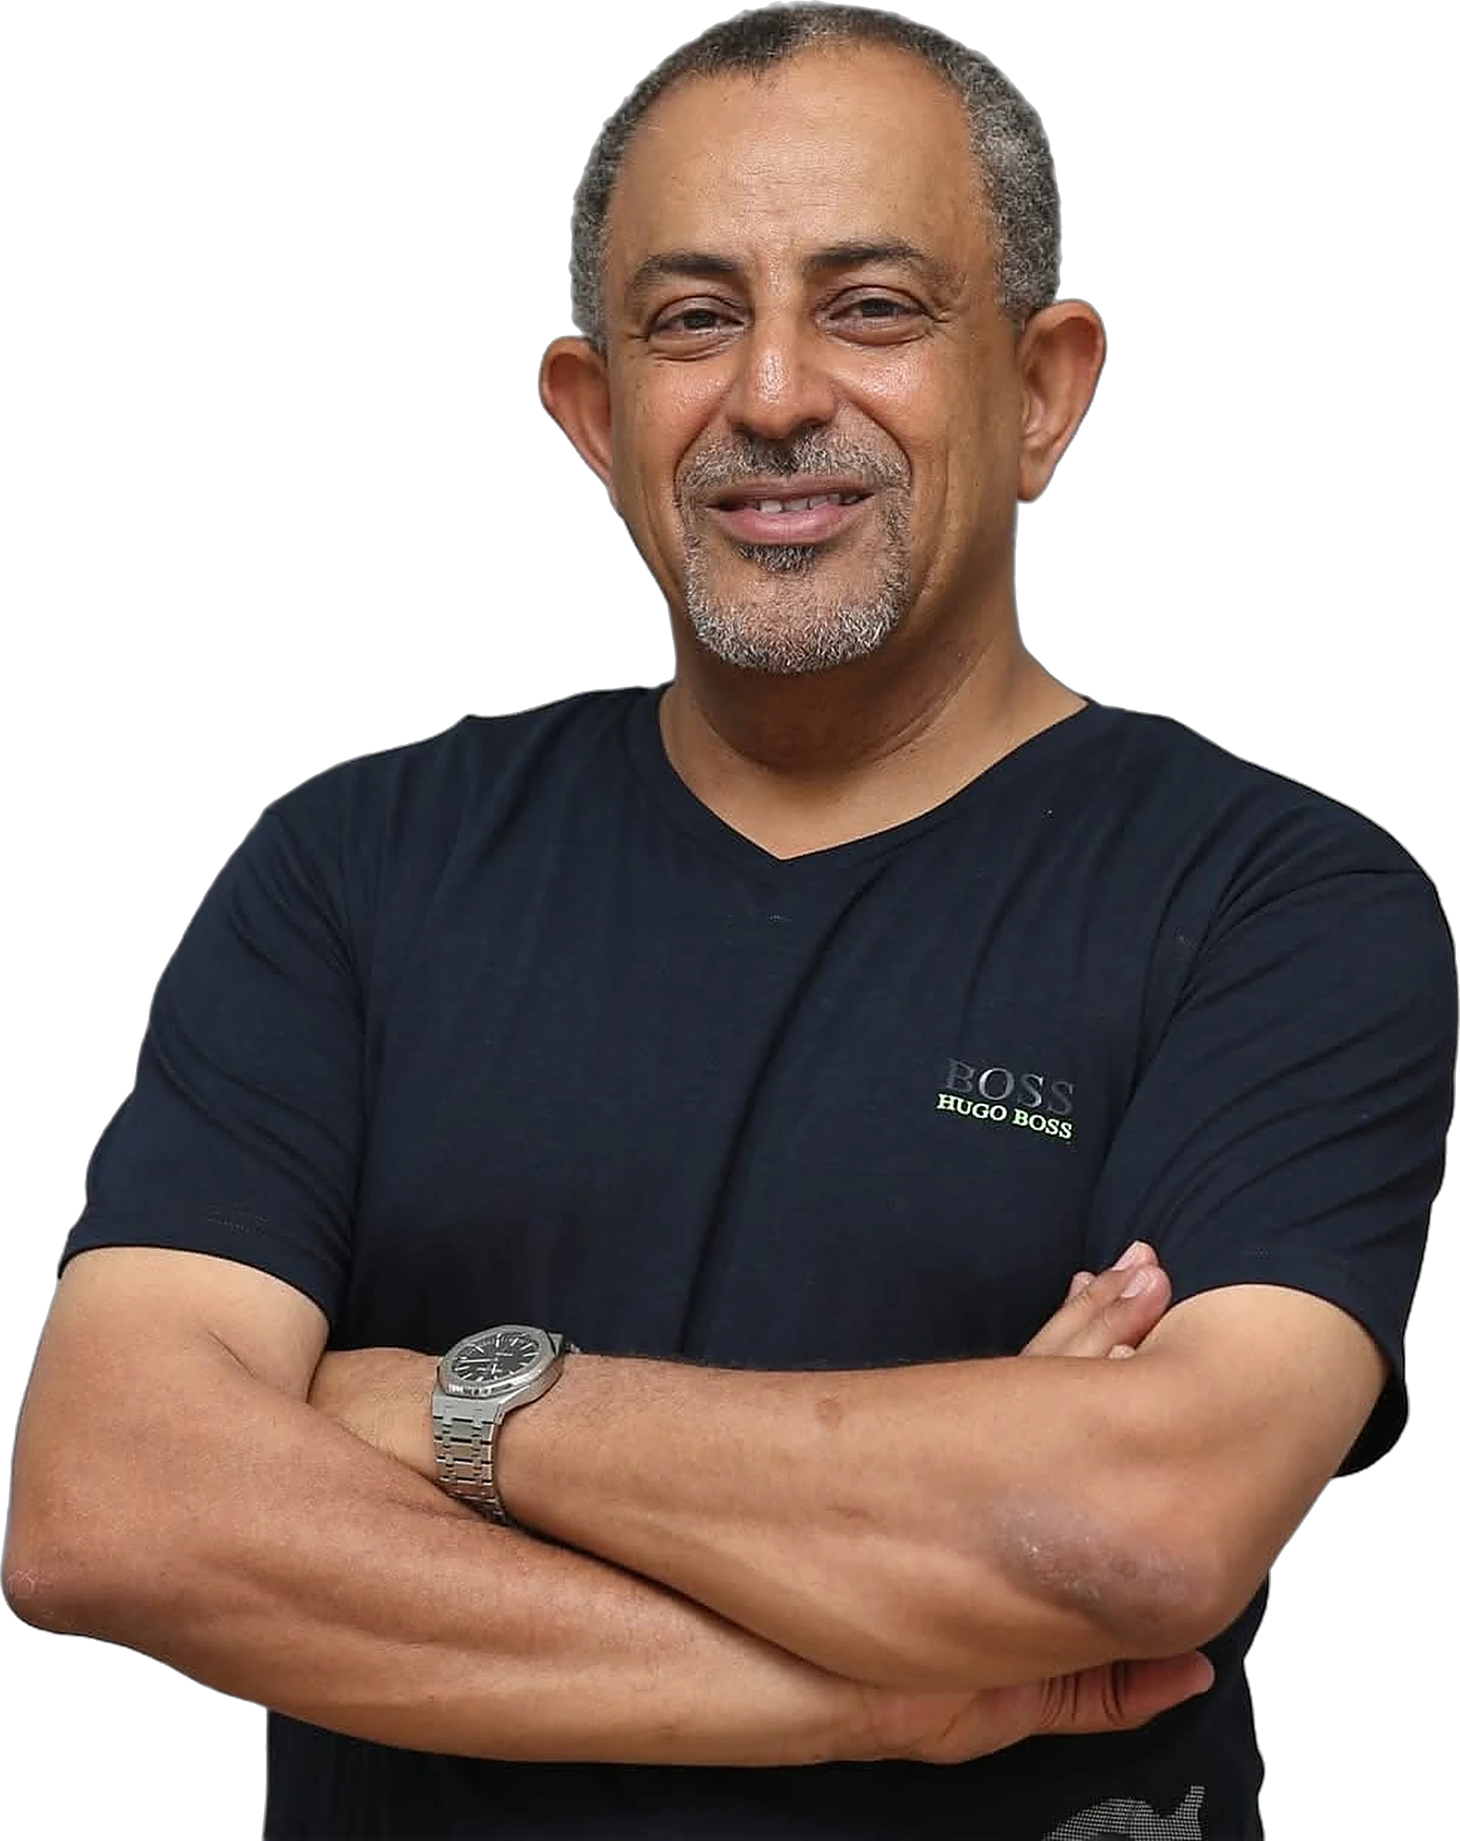
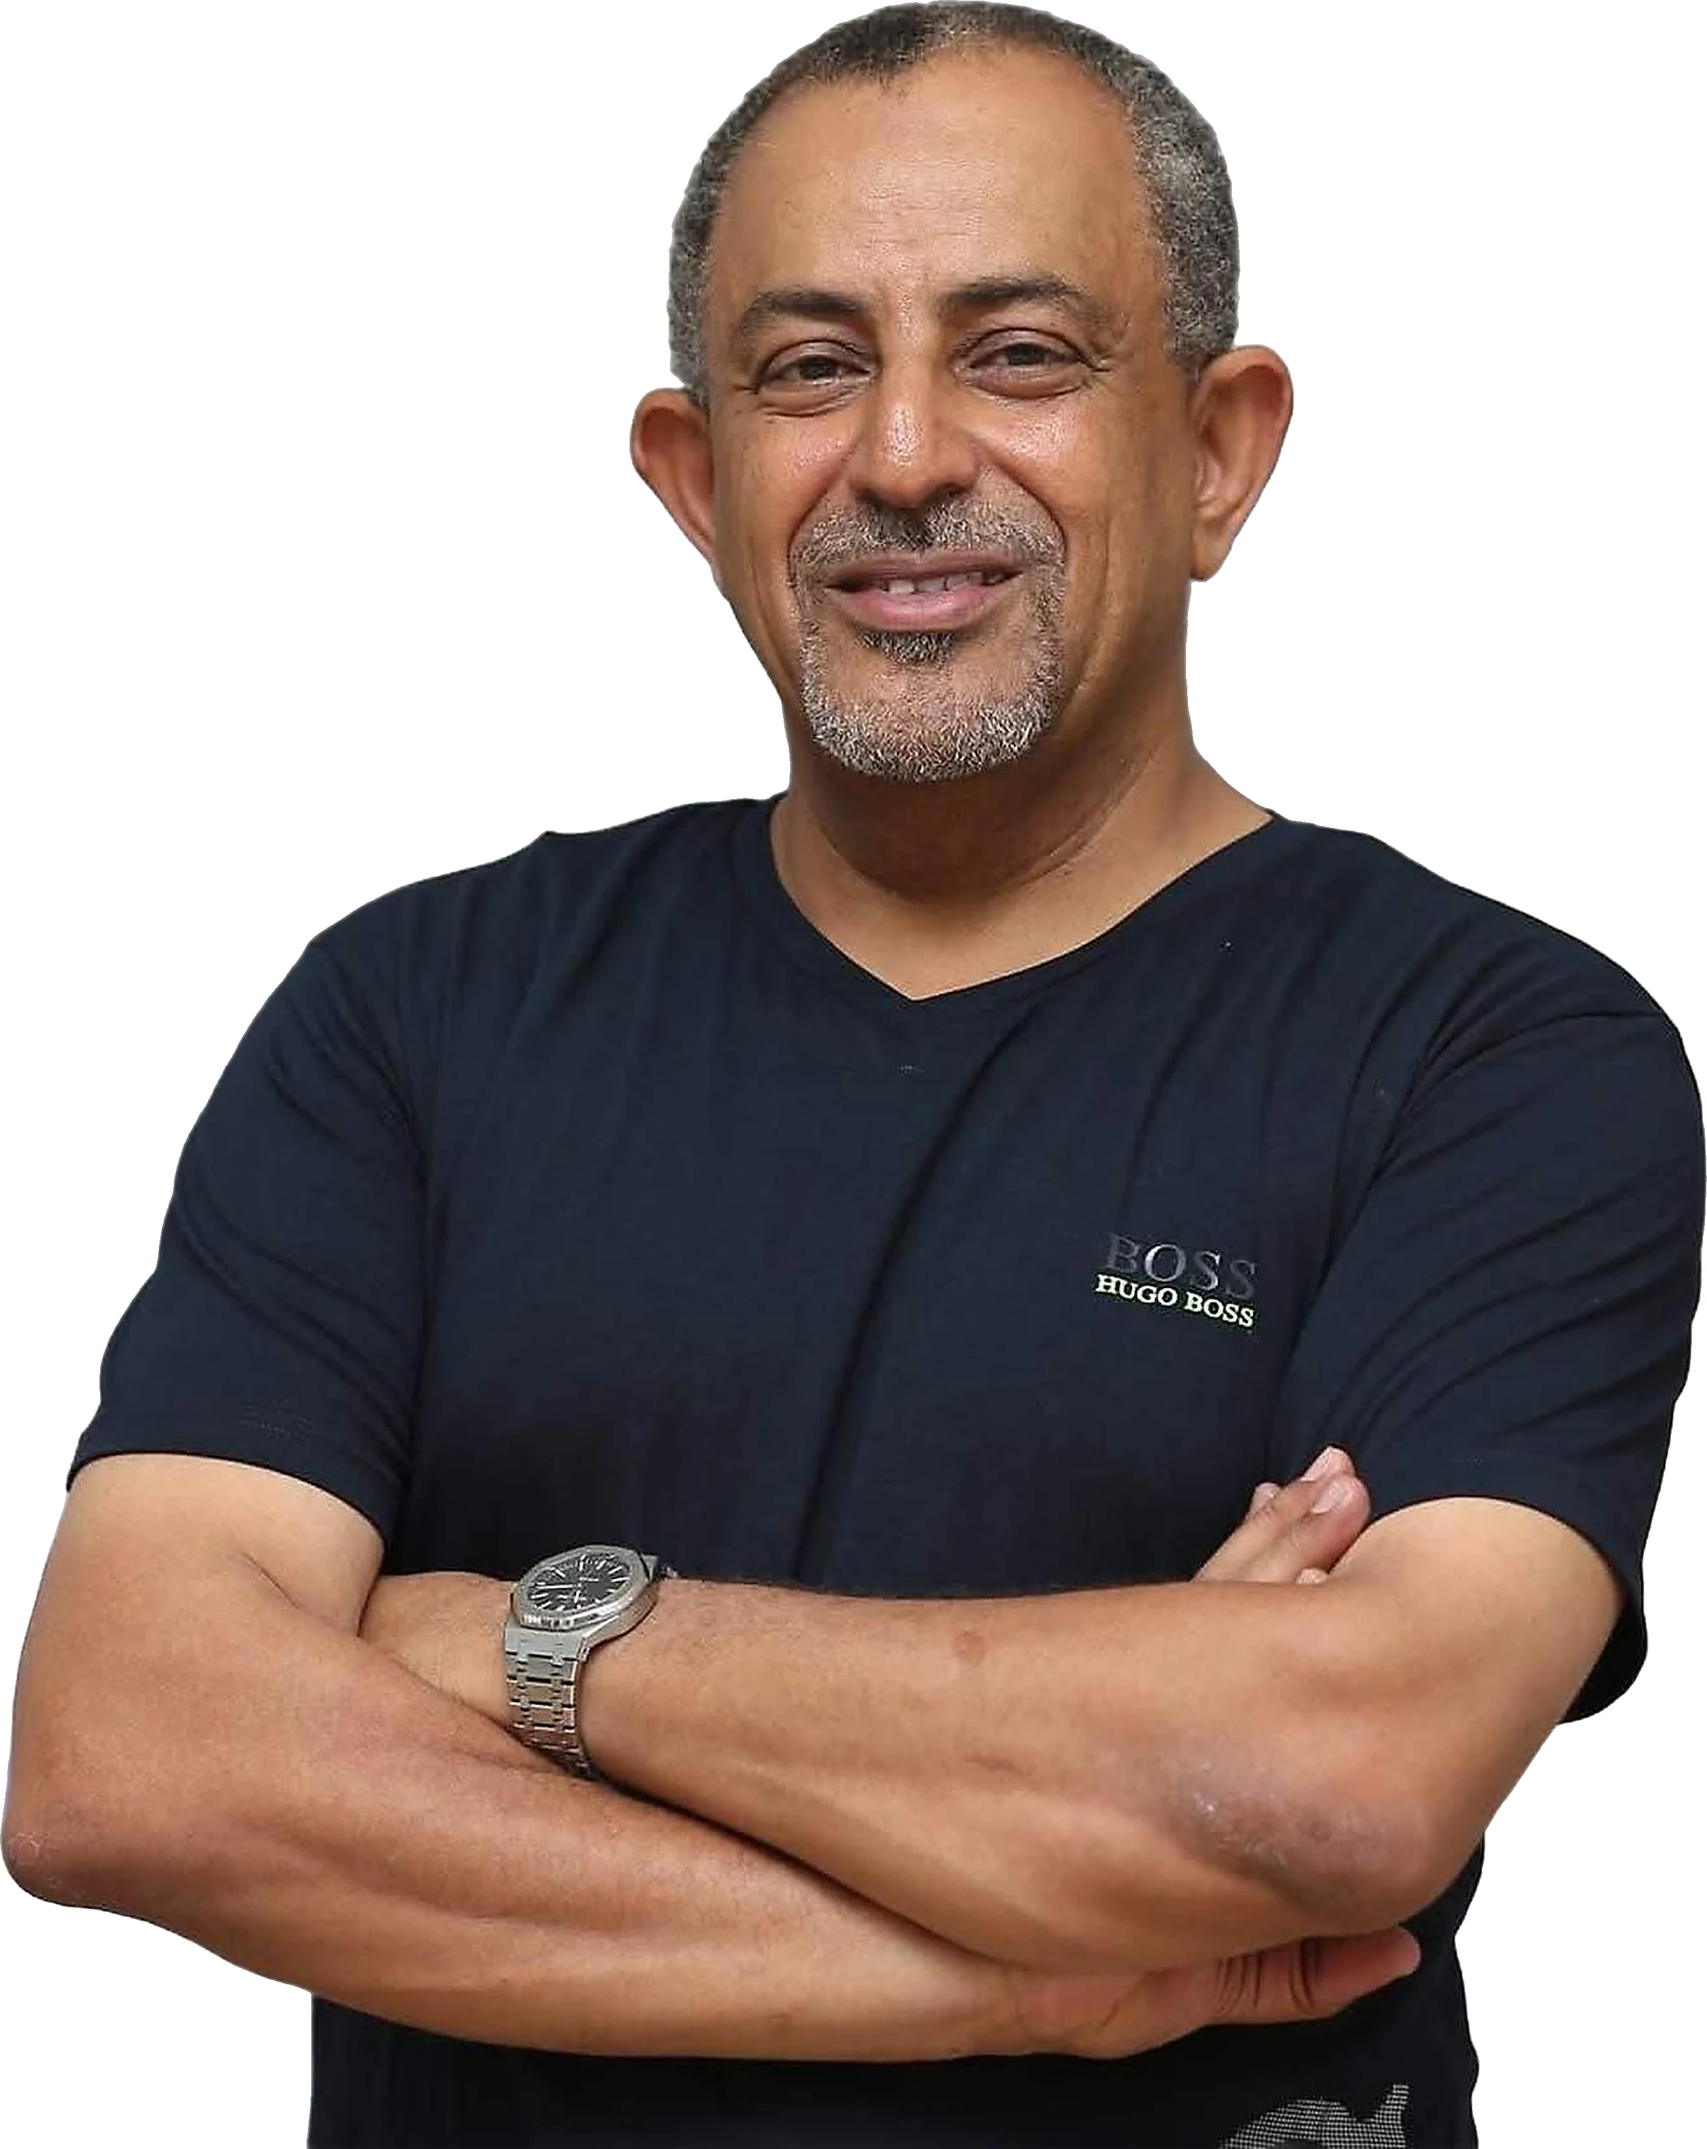
Replace four portraits with 4K enlargements of the campaign's higher-resolution photographs
Claude-Session: https://claude.ai/code/session_01QvSXVHCMzgFtvRa7cdBiHN

diff --git a/components/Portrait.tsx b/components/Portrait.tsx
@@ -31,8 +31,9 @@ export type PortraitId =
 /**
  * Intrinsic dimensions of the sources, so next/image never has to guess.
  *
- * Mombasa edition: the five photographs supplied by the campaign (November 2026), cut out and
- * enlarged to about 2,800-3,200px tall with a plain Lanczos resample and a light unsharp mask. No
+ * Mombasa edition: the photographs supplied by the campaign (November 2026). The four replaced on
+ * 20 November came at 1,365-2,044px; each was enlarged to 3,840px on its long side (4K) with a
+ * plain Lanczos resample and a light unsharp mask, then cut out. No
  * generative upscaler was used, so the face is exactly as photographed; the enlargement adds no
  * detail the camera did not record. The three original slot names are kept so every placement
  * keeps working.
@@ -40,15 +41,15 @@ export type PortraitId =
 const PORTRAITS: Record<PortraitId, { file: string; w: number; h: number; alt: string }> = {
   "hero-clasped-hands": {
     file: "quilted-jacket-smile-4k",
-    w: 3065,
-    h: 3026,
+    w: 3652,
+    h: 3595,
     alt: "Hon. Suleiman Shahbal, smiling, in a navy quilted jacket and tie.",
   },
   "three-piece-formal": {
-    file: "shirt-tie-cuff-4k",
-    w: 2760,
-    h: 3111,
-    alt: "Hon. Suleiman Shahbal in a white shirt and navy tie, adjusting his cuff.",
+    file: "quilted-jacket-portrait-4k",
+    w: 3499,
+    h: 3067,
+    alt: "Hon. Suleiman Shahbal in a navy quilted jacket, white shirt and tie.",
   },
   "gesture-explaining": {
     file: "kofia-kanzu-smile-4k",
@@ -58,14 +59,14 @@ const PORTRAITS: Record<PortraitId, { file: string; w: number; h: number; alt: s
   },
   "red-polo-arms-crossed": {
     file: "red-polo-arms-crossed-4k",
-    w: 2622,
-    h: 3197,
+    w: 3115,
+    h: 3795,
     alt: "Hon. Suleiman Shahbal in a red polo shirt, arms crossed.",
   },
   "black-tee-arms-crossed": {
     file: "black-tee-arms-crossed-4k",
-    w: 2235,
-    h: 2818,
+    w: 2612,
+    h: 3289,
     alt: "Hon. Suleiman Shahbal in a black T-shirt, arms crossed.",
   },
 };
